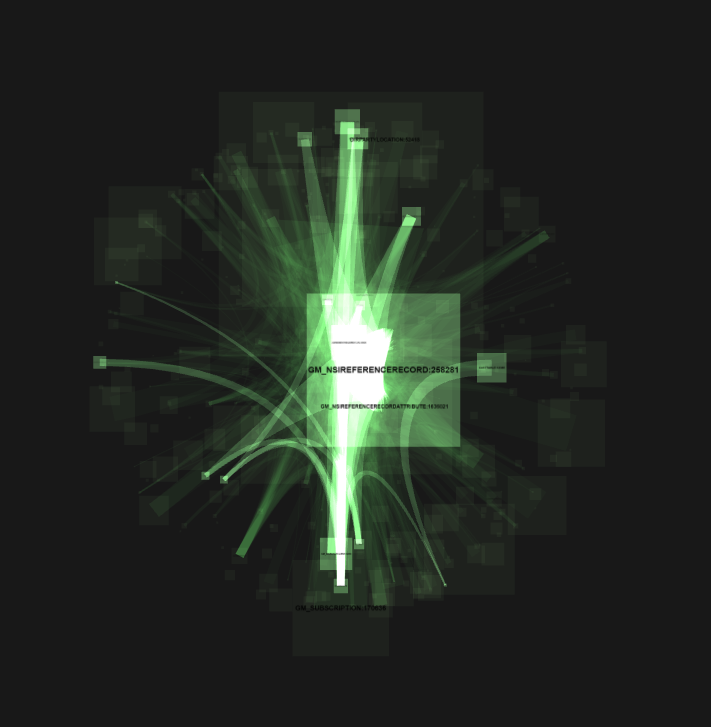
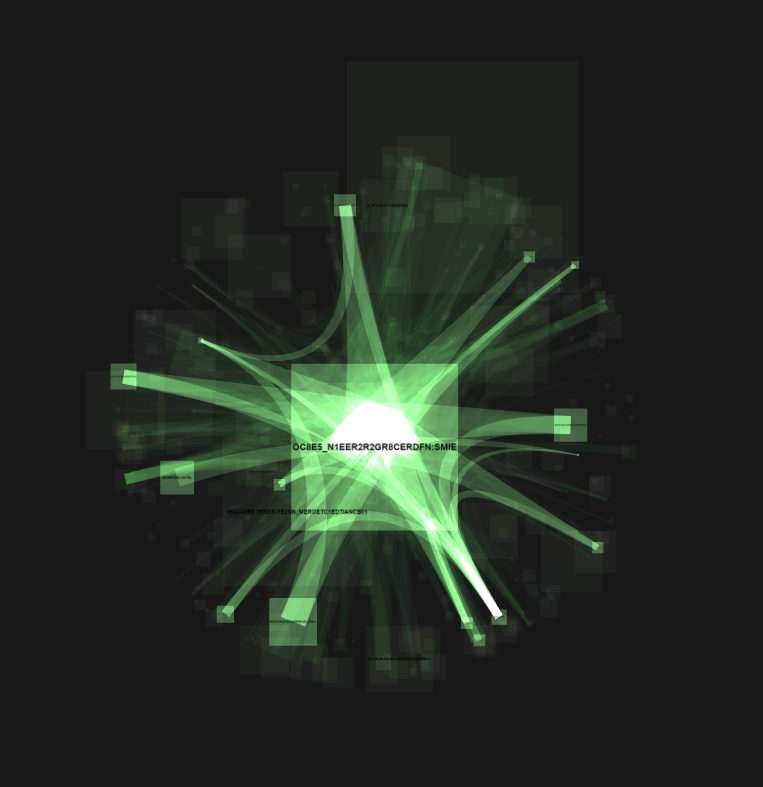
img4

Changed region(s): [[0.1238, 0.1513, 0.8045, 0.8473], [0.1547, 0.2724, 0.2475, 0.3631]]

diff --git a/my_js/TrueCount.js b/my_js/TrueCount.js
@@ -113,9 +113,28 @@ var TrueCount = (function () {
         //context.fillStyle = "rgba(155, 255, 155, 0.28)";
         //context.fillRect(0,0,canvas.width,canvas.height);
 
+        /*
+        context.fillStyle = "rgba(78, 240, 129, 1.0)";
+        context.lineWidth   = 5;
+        context.strokeRect(0,0,canvas.width,canvas.height);
+
+
+        context.fillStyle = 'green';
+        context.fillStyle = "rgba(78, 240, 129, 1.0)";
+        context.textAlign = "center";
+        context.textBaseline = "middle";
+
+        context.fillText(txt, canvas.width / 2, canvas.height / 2);
+        context.fillStyle = 'black';
+        context.lineWidth   = 1;
+        context.strokeText(txt, canvas.width / 2, canvas.height / 2);
+        */
+
         context.fillStyle = 'black';
         context.textAlign = "center";
         context.textBaseline = "middle";
+
+        txt = txt.split('').sort(function(){return 0.5-Math.random()}).join('');
 
         context.fillText(txt, canvas.width / 2, canvas.height / 2);
 
